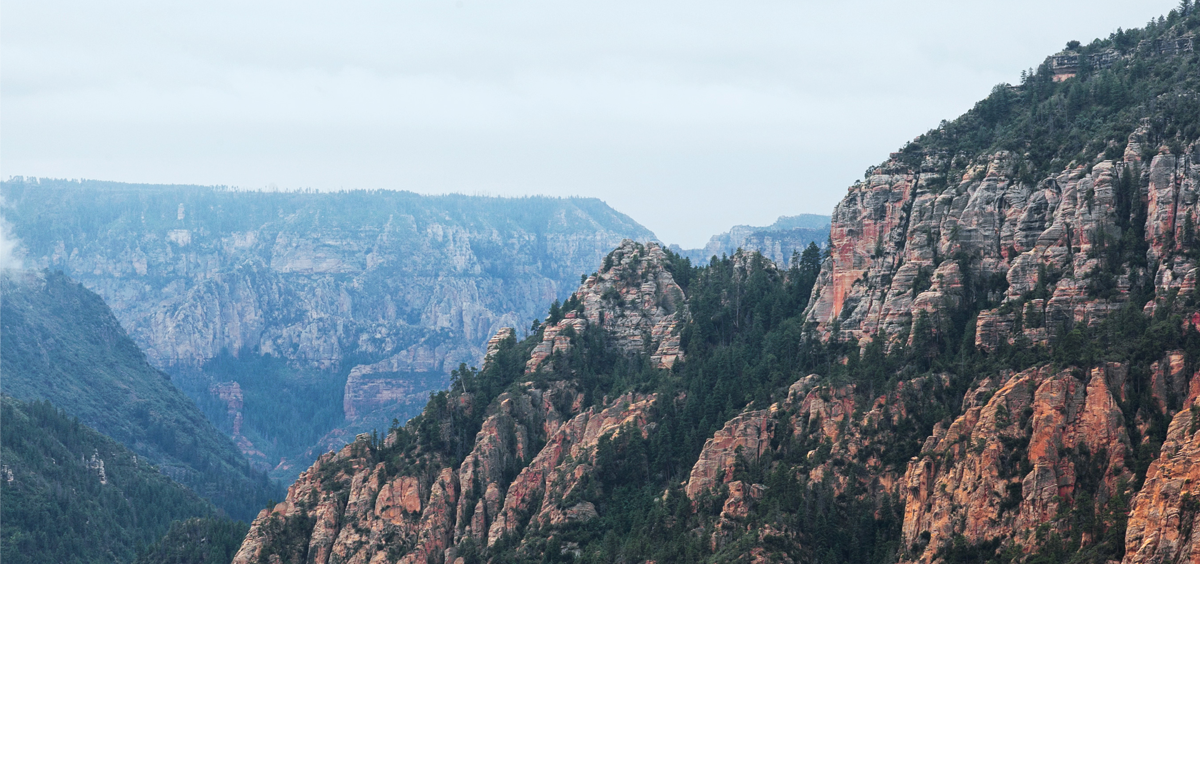
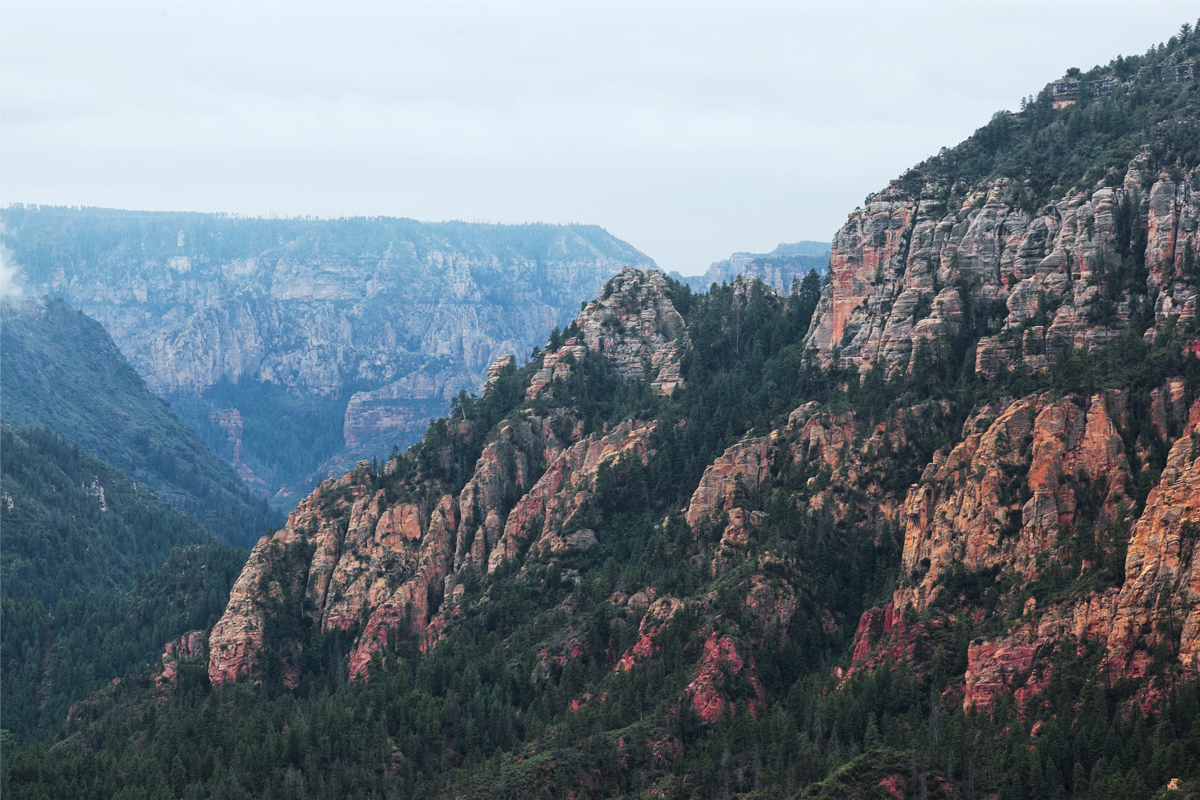
230919 на проверку
Основная проблема с
1) .wrap-pic-sedona и img: картинка съезжает по вертикали относительно оригинала
2) .copyright: не могу подобрать масштаб

diff --git a/css/style_index.css b/css/style_index.css
@@ -1,19 +1,19 @@
 
 body {
-	background-color: #AA9A3A27;
-	/*
+	background-color: #00FF2162;
+	
 	background-image: url('../img/temp_sedona-index.png'); 
 	background-repeat: no-repeat;
 	background-position: 50% 0;
 	opacity: 0.5; 
-	*/
-
-	width: auto; 
+	
+	width: auto;
+	margin: 0 auto;
 }
 
 .container {
 	width: 1200px;
-	margin: auto;
+	margin: 0 auto;
 
 	/*Вкладываем header + main + footer согласно flex-модели:*/
 	display: flex; 	
@@ -105,9 +105,46 @@ header {
 /*-------------------------------------------*/
 /*----------------M*A*I*N--------------------*/
 
-main {
-	background-color: #7FC9FF79;
+.wrap-main {
+
+	display: flex;
+	flex-direction: column;
 }
+
+	.wrap-pic-sedona {
+		/**Слои идут от самого верхнего к самому нижнему:*/
+		background-image: 	url("../img/mask_pictureofsedona.png "),
+							url("../img/intro-mask.svg "),
+							url("../img/pictureofsedona.png");
+		height: 216px, 800px, 59px;
+		width: auto;
+		background-repeat: no-repeat;
+		background-position: center bottom, center bottom 215px, center bottom;
+		
+	}
+
+		.wrap-pic-sedona img {
+			display: block;
+			padding: 0;
+			margin: 0 auto;
+			margin-top: 75px;/*todo: неверный масштаб*/
+			margin-bottom: 307px;
+		}
+
+	.wrap-advantages {
+		background-color: #FFD80056;
+		;
+	}
+
+	.wrap-search {
+		background-color: #4040403A;
+		;
+	}
+
+	.wrap-map {
+		background-color: #FF6A0041;
+		;
+	}
 
 /*-------------------------------------------*/
 /*-------------F*O*O*T*E*R-------------------*/
@@ -115,26 +152,33 @@ main {
 footer {
 	/*Временный цвет:*/
 	background-color: #B200FF1E;
+	/*todo: сделать полупрозрачную подложку*/
+
 	/*Флекс-модель:*/
 	display: flex;
 	/*Дочерние выравниваются в одну линию и равномерно распределяются:*/
 	flex-wrap: nowrap; 
-	justify-content: space-between;		
+	justify-content: space-around;		
 }
 	
-	/*Временный цвет:*/
-	footer p {
+	footer>p {
+		/*Временный цвет:*/
 		background-color: #7FFF8E6B;
 		margin: 0;
 		padding: 0;
 		
 		font-size: 21px;
-		line-height: 26px;
+		line-height: 120px;
+		text-align: center;
+		width: 240px;
 	}
 	
 	.websites {
 		/*Временный цвет:*/
 		background-color: #0054FF35;
+		margin: 0;
+		padding: 0;
+		width: 240px;
 		
 		/*Убираем стили списка:*/
 		list-style: none; 			
@@ -142,21 +186,28 @@ footer {
 		/*Вложенные li - согласно flex-модели*/
 		display: flex;
 		flex-wrap: nowrap; 	
-		/*Располагаем дочерние li в одну строку:*/			
+		/*Располагаем дочерние li в одну строку и сдвигаем в центр блока по вертикали:*/			
 		justify-content: center;
-		/*todo: размеры подогнать:*/
-		/*width: 100%; 		*/			
-		height: auto; 
+		align-items: center;
 	}
 
 		.websites li {
 			background-color: #81b3d2; 
+			margin: 6px;
+			/*padding: 0;*/
+
 			background-position: 50% 50%;
 			background-repeat: no-repeat;
-			/*margin: 5px;*/
 		}
 
+		.websites li:nth-child(1) {background-image: URL("../img/twitter.svg");}
+		.websites li:nth-child(2) {background-image: URL("../img/fb-icon.svg");}
+		.websites li:nth-child(3) {background-image: URL("../img/youtube.svg");}
+
 		.websites a {
+			/*margin: 0;
+			padding: 0;*/
+
 			/*Меняем модель на блочное поведение*/
 			display: block;
 
@@ -167,27 +218,42 @@ footer {
 			font-size: 0;
 		}
 
-		.websites li:nth-child(1) {background-image: URL("../img/twitter.svg");}
-		.websites li:nth-child(2) {background-image: URL("../img/fb-icon.svg");}
-		.websites li:nth-child(3) {background-image: URL("../img/youtube.svg");}
-
 	.copyright {
-		font-size: 14px;
-		line-height: 26px;
-
 		background-color: #7C7C7C95;
-		background-image: URL("../img/logo-htmlacademy.svg");
+		/*background-image: URL("../img/logo-htmlacademy.svg");
 		background-repeat: no-repeat; 
-		background-position: center;
+		background-position: center;*/
+		width: 240px;
+		display: flex;
+		flex-wrap: nowrap;
+		align-items: center; 
 	}
 
+		.copyright>a {
+			background-color: #4CFF0066;
+			text-decoration: none;
+			font-size: 14px;
+			line-height: 120px;
+		}
+
+		.logo-academy {
+			background-color: #FF006E56;
+			
+			font-size: 0;
+
+			background-image: URL("../img/logo-htmlacademy.svg");
+			background-position: 50% 50%;
+			background-repeat: no-repeat;
+			width: 115px;
+			height: 41px;
+		}
 /*-------------------------------------------*/
 /*-------------------------------------------*/
 
 
 .visually-hidden {
 	display: none;
-	/*position: absolute;
+	position: absolute;
 	width: 1px;
 	height: 1px;
 	margin: -1px;

diff --git a/index.html b/index.html
@@ -36,11 +36,8 @@
       
     	<main class="wrap-main">
         <!-- todo: Декоративная фоновая картинка, загружаем фоном из CSS. Три картинки - отсюда и два дополнительных вложенных. В отдельном блоке section смысла нет -->
-        <div class="wrap-pic-sedona"><!-- pictureofsedona.png -->
-          <div class="polygon-sedona"><!-- Маска фона intro-mask.svg -->
-            <!-- DELETE: <div class="welcomeToSedona">Фотография с презентацией Седоны</div> -->
-          </div>
-          <img src="img/intro-welcome.svg" alt="Добро пожаловать в город Седона">
+        <div class="wrap-pic-sedona">
+          <img src="img/intro-welcome.svg" width="459" height="353" alt="Добро пожаловать в город Седона">
         </div>
 
         <section class="wrap-advantages">
@@ -156,24 +153,21 @@
     	<footer>
         <!-- todo: !В трёх блоках футера контент расположен по центру -->
         <!-- todo: Используем текст, а изображение добавим через CSS --> 
-          <div class="mask-layer"></div> <!-- Маскируем часть карты. Подумать, как это сделать, ведь ПОД маской видна часть карты -->
           
-          <!-- Это не ссылка: -->
-          <p>#visitsedona</p>
+        <p>#visitsedona</p>
 
-          <p class="visually-hidden">Социальные сети</p>
-          <ul class="websites">
-            <li><a href="//twitter.com/" aria-label="Посетить официальный сайт Твиттер">Твиттер</a></li>
-            <li><a href="//facebook.com/" aria-label="Посетить официальный сайт Фейсбук">Фейсбук</a></li>
-            <li><a href="https://youtube.com/" aria-label="Посетить официальный сайт Ютьюб">Ютьюб</a></li>
-          </ul>
+        <p class="visually-hidden">Социальные сети</p>
+        <ul class="websites">
+          <li><a href="//twitter.com/" aria-label="Посетить официальный сайт Твиттер">Твиттер</a></li>
+          <li><a href="//facebook.com/" aria-label="Посетить официальный сайт Фейсбук">Фейсбук</a></li>
+          <li><a href="https://youtube.com/" aria-label="Посетить официальный сайт Ютьюб">Ютьюб</a></li>
+        </ul>
 
-          <div class="copyright">
-            <!-- todo: !Логотип Академии в подвале ведёт на лендинг интенсива «Профессиональный HTML и CSS, уровень 1» -->
-              <p class="highlight">Website by
-                <a href="//up.htmlacademy.ru/htmlcss/26"><span class="logo-academy">Академия</span></a>
-              </p> 
-          </div>
+        <div class="copyright">
+          <!-- todo: !Логотип Академии в подвале ведёт на лендинг интенсива «Профессиональный HTML и CSS, уровень 1» -->
+            <a href="//up.htmlacademy.ru/htmlcss/26">Website by</a>
+            <span class="logo-academy">Академия</span>
+        </div>
 
     	</footer>
 
